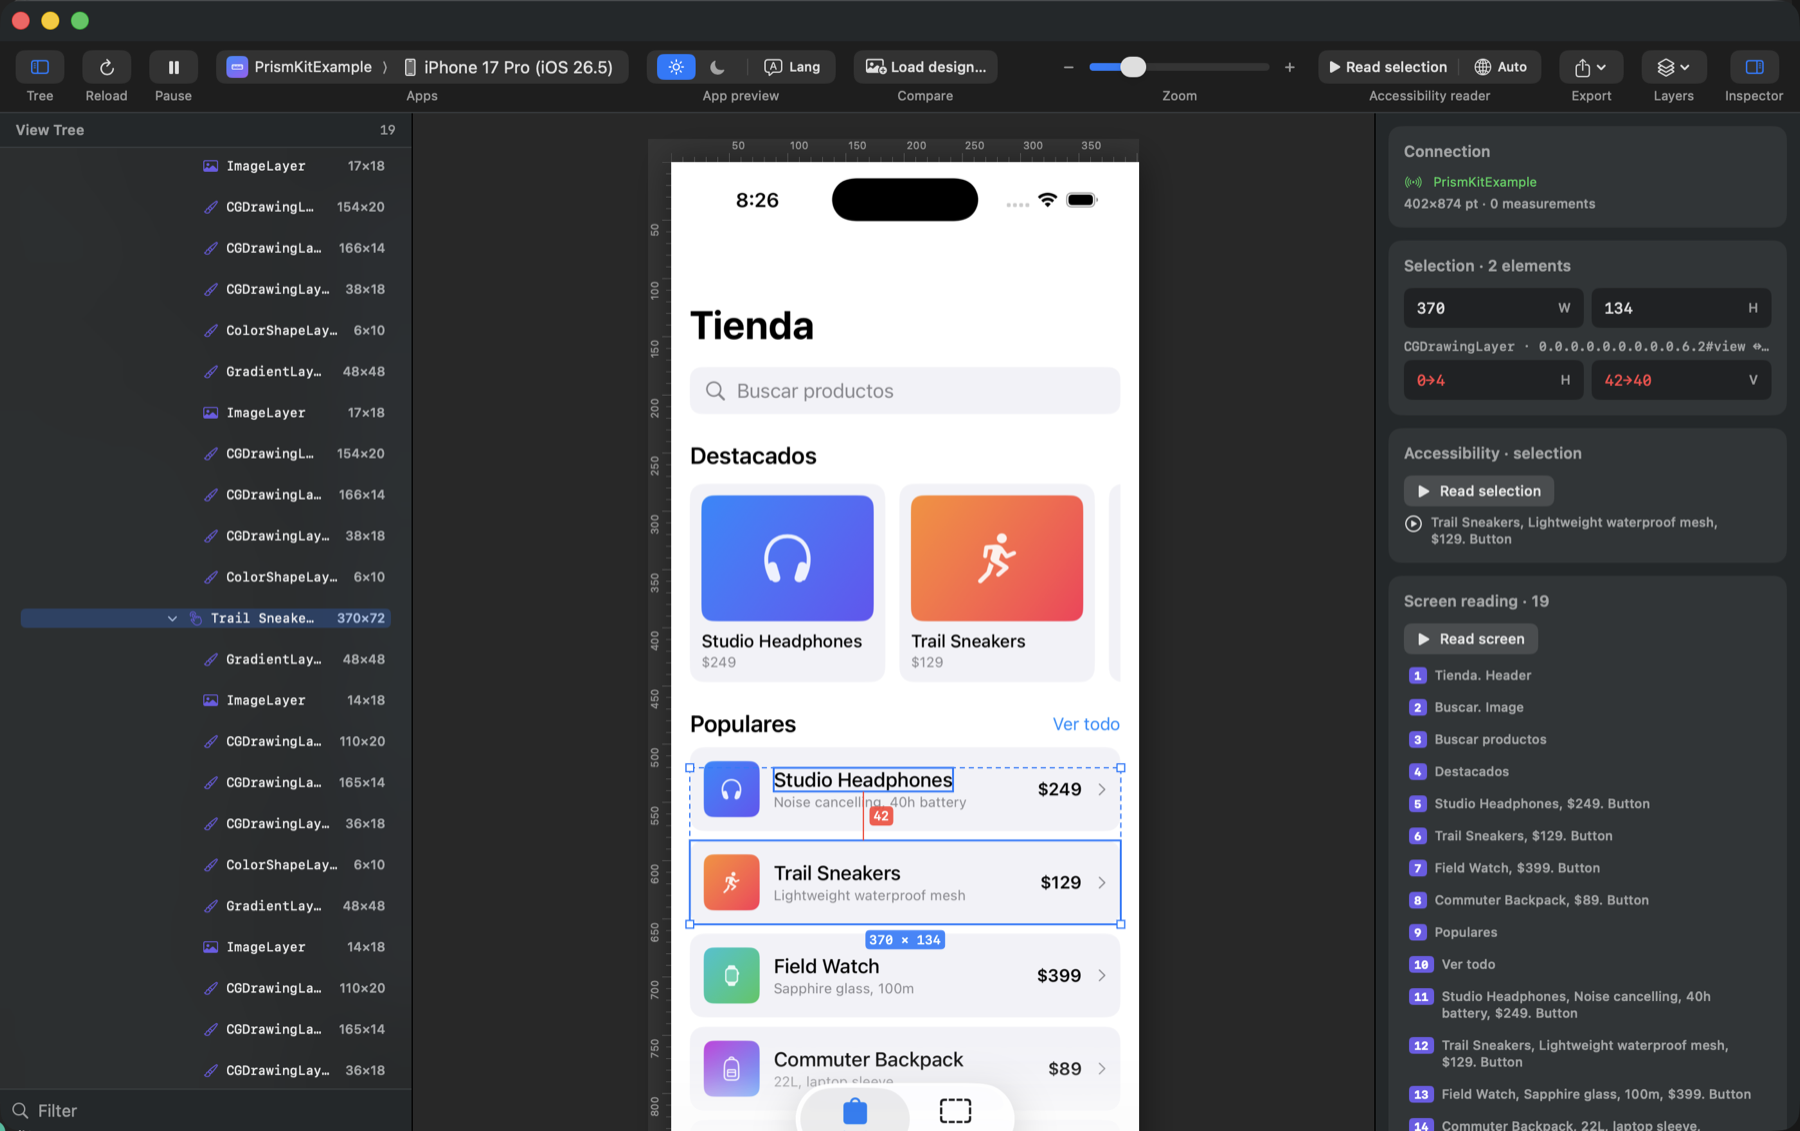
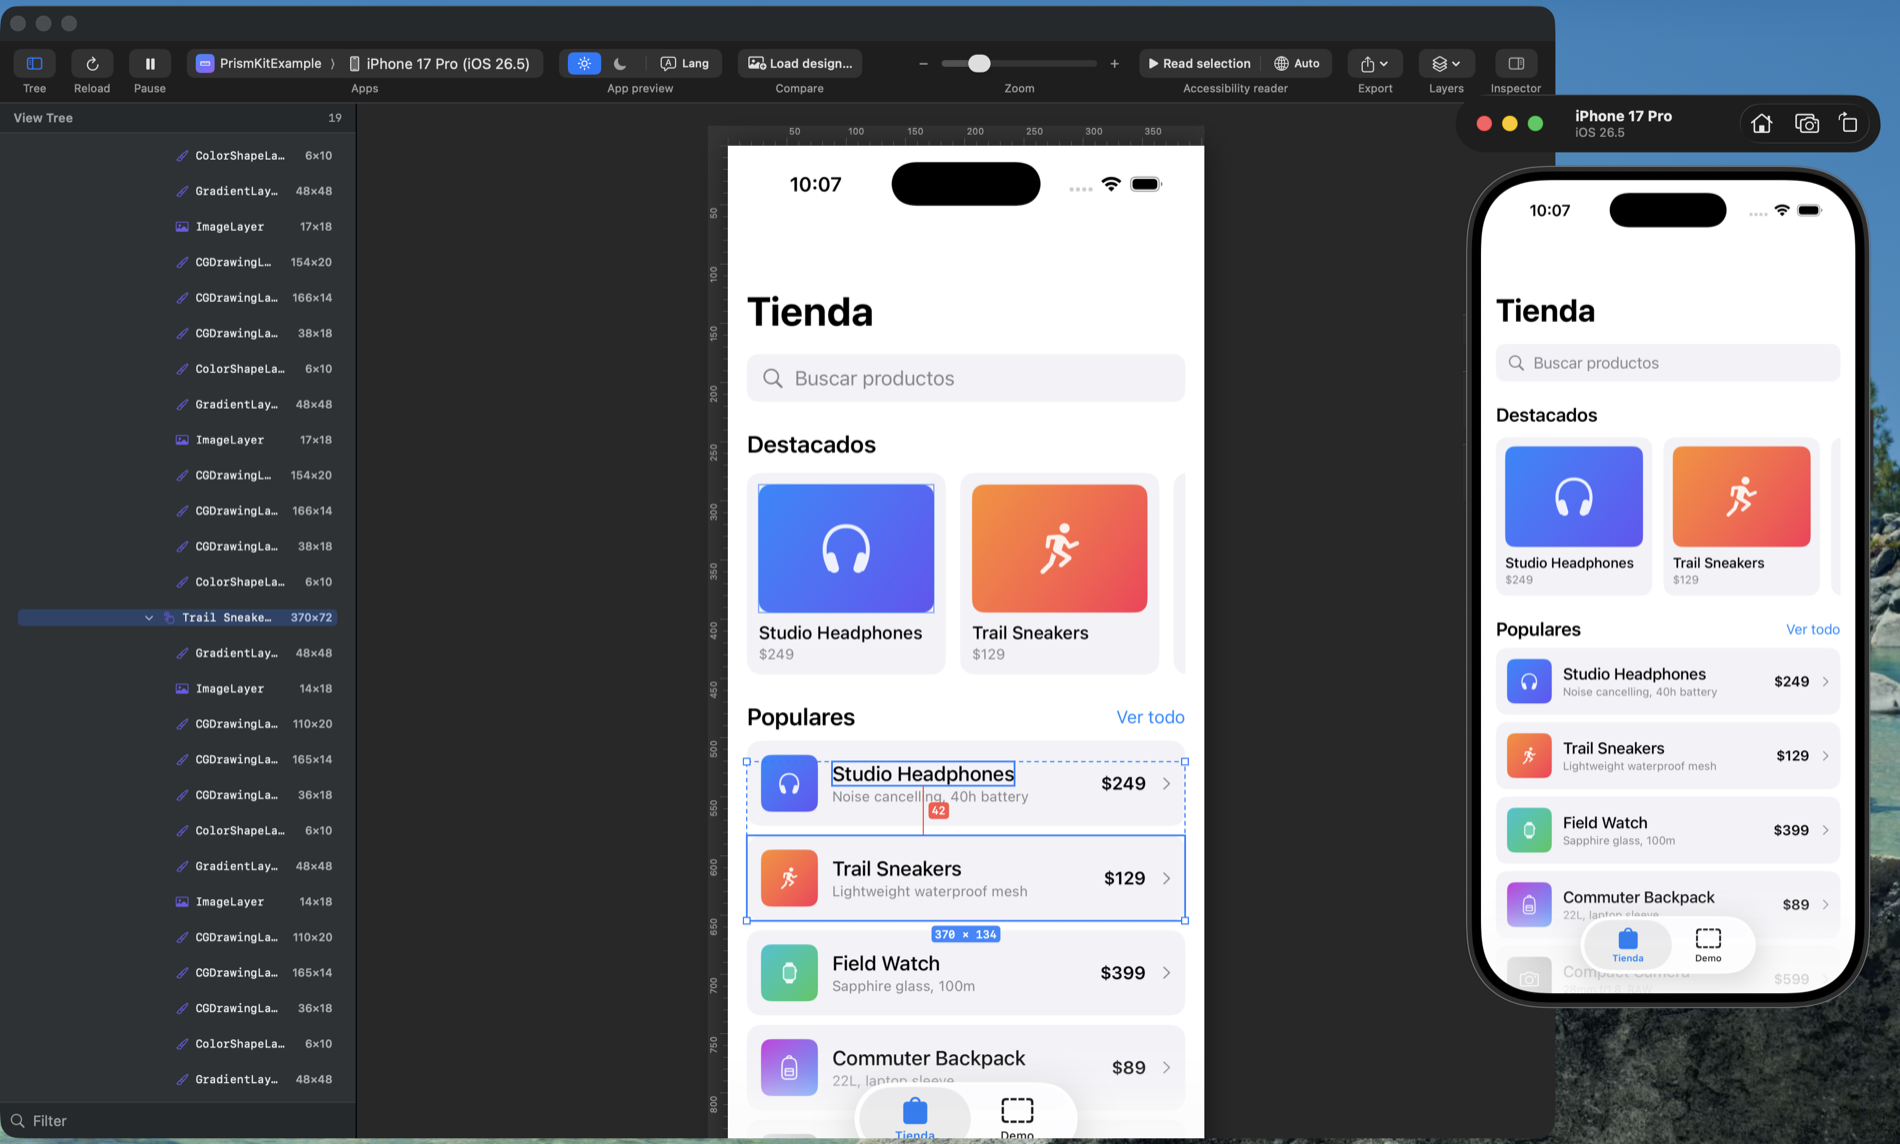
docs: show the simulator beside the inspector
The old screenshot showed only the app window, which left the central
point unsaid: this is a live reading of a running app, not a picture
being examined. Both windows are now in frame, showing the same screen
at the same moment.

diff --git a/docs/index.html b/docs/index.html
@@ -174,9 +174,10 @@
   </div>
 
   <figure>
-    <img src="screenshot.png" width="1800" height="1132"
-         alt="Prism Inspector showing an iOS Simulator screen. Two product rows are selected and the 42-point gap between them is flagged in red, with the inspector reporting 42→40.">
+    <img src="screenshot.png" width="1900" height="1144"
+         alt="Prism Inspector on the left and the iOS Simulator on the right, showing the same running app. Two product rows are selected in the inspector and the 42-point gap between them is flagged in red.">
     <figcaption>
+      The same app, live: the simulator on the right, the inspector reading it on the left.
       Two rows selected, the gap measured at 42 pt — and flagged <b>42→40</b>,
       because 42 is not on this project's spacing scale.
     </figcaption>
